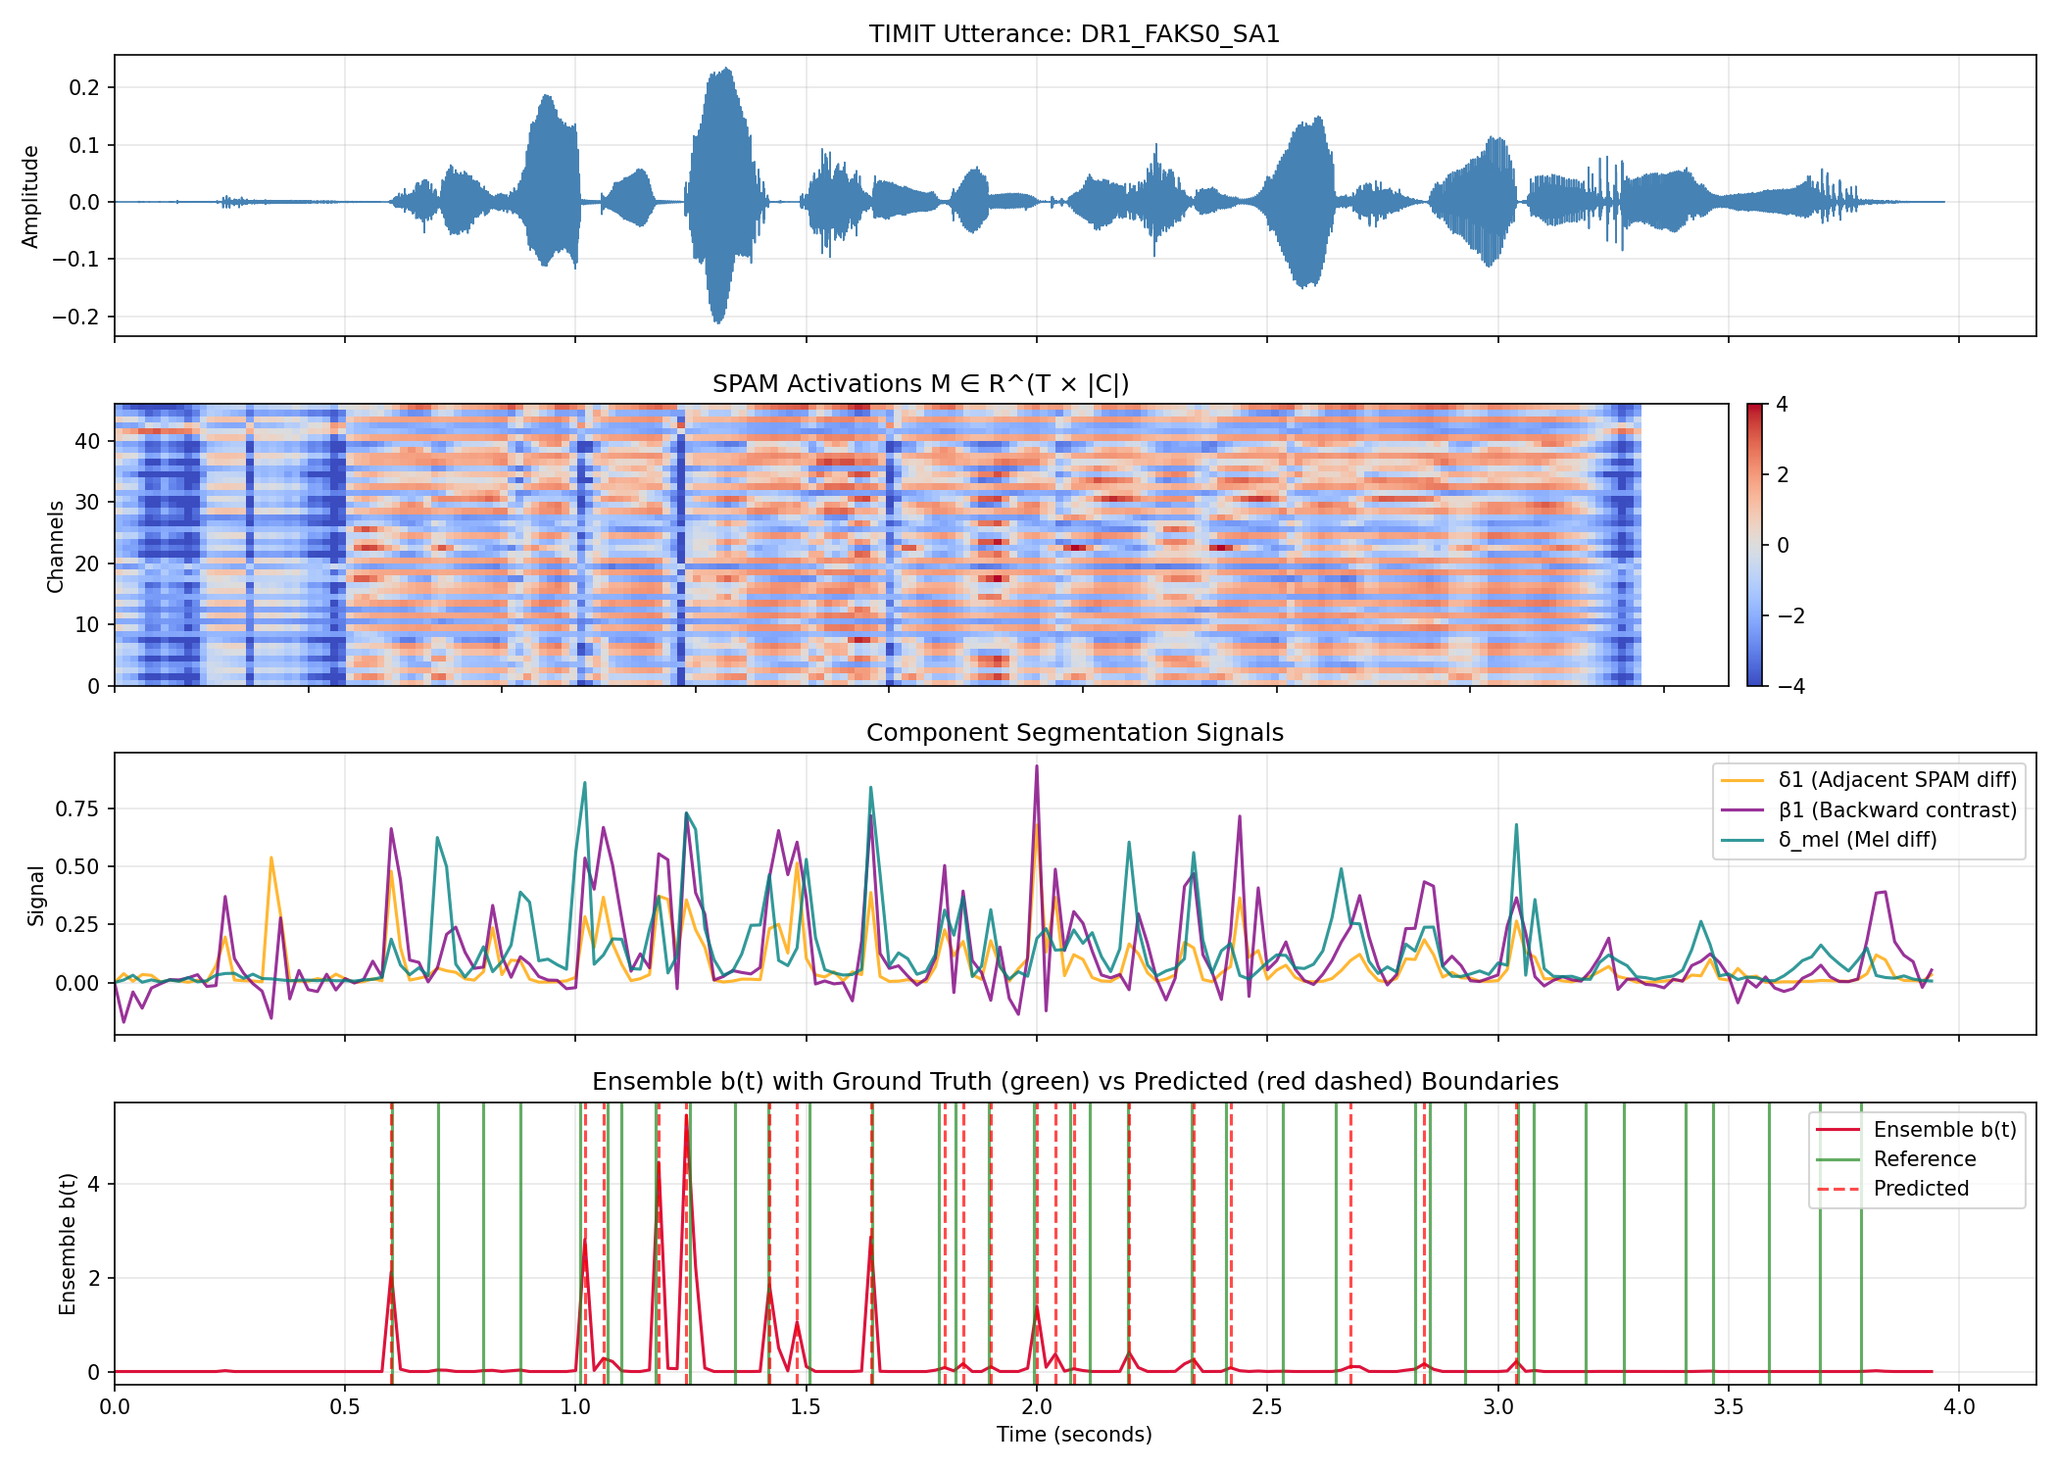
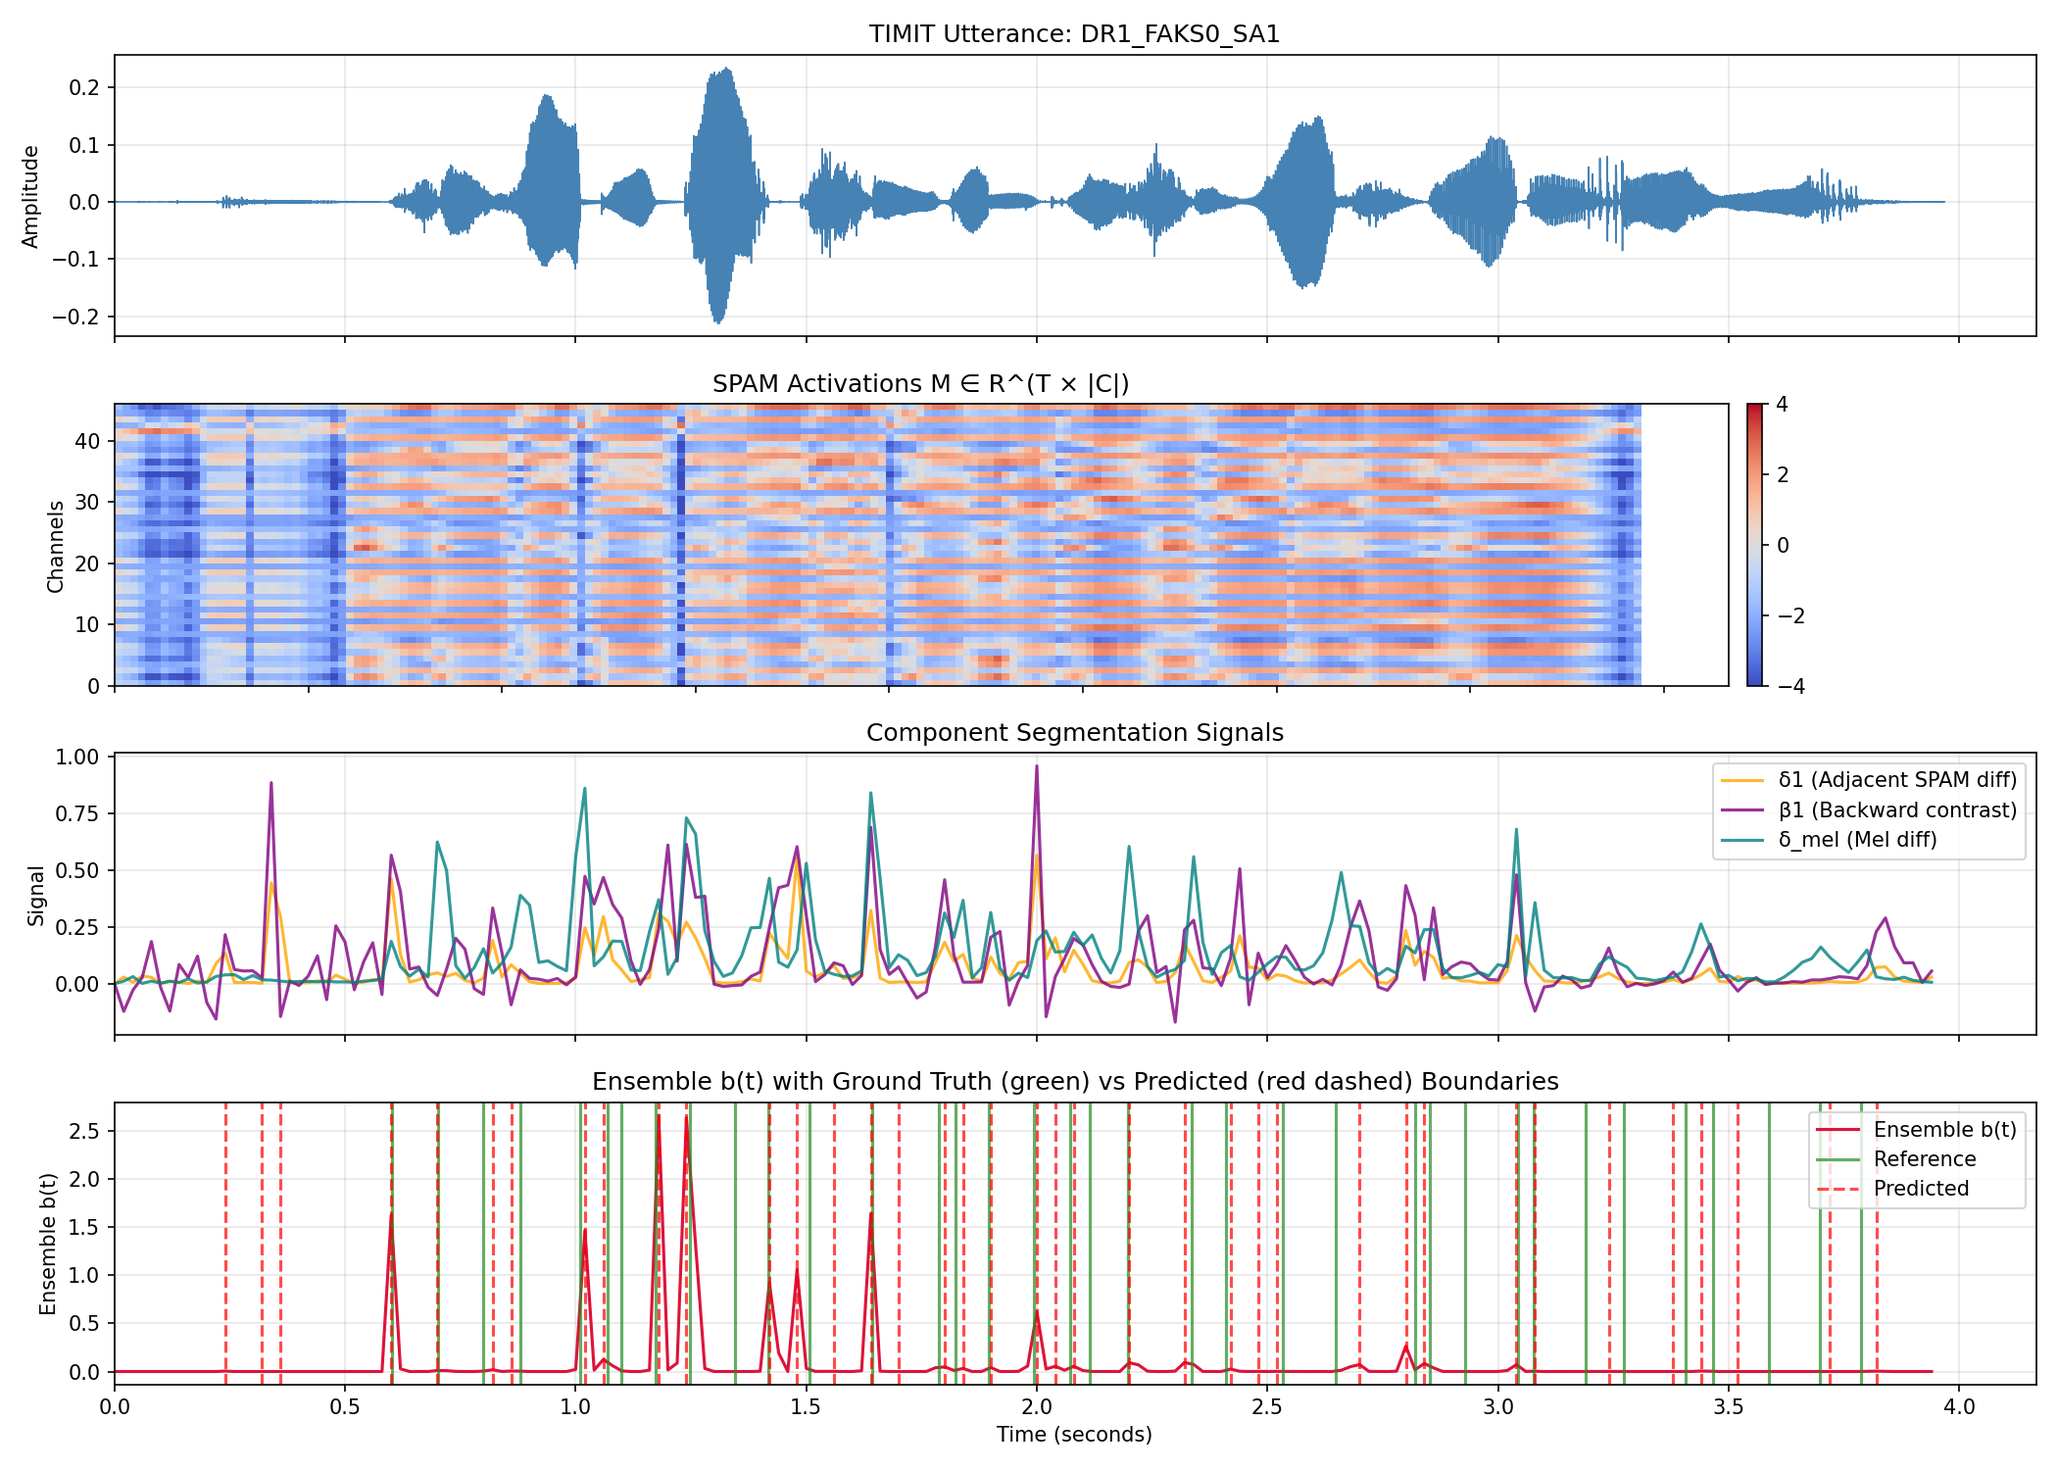
Align SPAM implementation with paper specifications and optimal hyperparameters

diff --git a/run_reproduction.py b/run_reproduction.py
@@ -85,9 +85,8 @@ def log_environment_info(pv: PhonologicalVectors, num_train: int, num_test: int)
 
 
 def run_full_reproduction(
-    num_train: int = 256,
+    num_train: Optional[int] = 256,
     use_core_test: bool = True,
-    prominence_sweep: Optional[List[float]] = None,
 ):
     np.random.seed(default_config.random_seed)
     torch.manual_seed(default_config.random_seed)
@@ -286,23 +285,27 @@ def run_full_reproduction(
     for utt, wav, rep, spam in test_data:
         b, _ = seg_head.compute_ensemble_signal(wav, rep, spam)
         peaks, pred_times = seg_head.detect_boundaries(b)
-        pred_phones = rec_head.predict_utterance(spam, peaks.tolist())
+        pred_phones = rec_head.predict_utterance(
+            spam,
+            peaks.tolist(),
+            silence_channel_idx=silence_idx,
+            silence_threshold=default_config.silence_threshold,
+        )
 
         all_ref_boundaries.append(utt.eval_boundaries)
         all_pred_boundaries.append(pred_times)
         all_ref_phones.append(utt.eval_ipa_sequence)
         all_pred_phones.append(pred_phones)
 
-    best_seg_res = evaluator.evaluate_segmentation(all_ref_boundaries, all_pred_boundaries)
-    best_rec_res = evaluator.evaluate_recognition(all_ref_phones, all_pred_phones)
-    best_prom = fixed_prom
+    seg_res = evaluator.evaluate_segmentation(all_ref_boundaries, all_pred_boundaries)
+    rec_res = evaluator.evaluate_recognition(all_ref_phones, all_pred_phones)
 
     print("\n" + "=" * 75)
-    print(f"REPRODUCTION RESULTS ON TIMIT (Prominence = {best_prom})")
+    print(f"REPRODUCTION RESULTS ON TIMIT (Prominence = {fixed_prom})")
     print("=" * 75)
-    print(best_seg_res)
+    print(seg_res)
     print("-" * 75)
-    print(best_rec_res)
+    print(rec_res)
     print("=" * 75)
 
     # Final Comparison Table (Section 21)
@@ -313,7 +316,7 @@ def run_full_reproduction(
     print(header)
     print("-" * len(header))
     paper_row = f"{'TIMIT':<8} | {'TIMIT (3h)':<20} | {'WavLM-large':<14} | {'24':<6} | {'80.0%':<20} | {'22.9%':<16}"
-    repro_row = f"{'TIMIT':<8} | {f'TIMIT ({len(train_utts)} utts)':<20} | {'WavLM-large':<14} | {'24':<6} | {f'{best_seg_res.r_value * 100:.2f}%':<20} | {f'{best_rec_res.pfer * 100:.2f}%':<16}"
+    repro_row = f"{'TIMIT':<8} | {f'TIMIT ({len(train_utts)} utts)':<20} | {'WavLM-large':<14} | {'24':<6} | {f'{seg_res.r_value * 100:.2f}%':<20} | {f'{rec_res.pfer * 100:.2f}%':<16}"
     print(f"[Paper]      {paper_row}")
     print(f"[Reproduced] {repro_row}")
     print("=" * 85)
@@ -324,15 +327,63 @@ def run_full_reproduction(
         f.write("SPAM TIMIT REPRODUCTION SUMMARY\n")
         f.write(f"Train utterances: {len(train_utts)}\n")
         f.write(f"Test utterances: {len(test_utts)}\n")
-        f.write(f"Best Prominence: {best_prom}\n")
-        f.write(f"Segmentation R-value: {best_seg_res.r_value * 100:.2f}%\n")
-        f.write(f"Precision: {best_seg_res.precision * 100:.2f}%\n")
-        f.write(f"Recall: {best_seg_res.recall * 100:.2f}%\n")
-        f.write(f"F1: {best_seg_res.f1 * 100:.2f}%\n")
-        f.write(f"Recognition PFER: {best_rec_res.pfer * 100:.2f}%\n")
-        f.write(f"Recognition PER: {best_rec_res.per * 100:.2f}%\n")
+        f.write(f"Prominence: {fixed_prom}\n")
+        f.write(f"Segmentation R-value: {seg_res.r_value * 100:.2f}%\n")
+        f.write(f"Precision: {seg_res.precision * 100:.2f}%\n")
+        f.write(f"Recall: {seg_res.recall * 100:.2f}%\n")
+        f.write(f"F1: {seg_res.f1 * 100:.2f}%\n")
+        f.write(f"Recognition PFER: {rec_res.pfer * 100:.2f}%\n")
+        f.write(f"Recognition PER: {rec_res.per * 100:.2f}%\n")
     print(f"\nSummary saved to: {summary_path}")
 
 
 if __name__ == "__main__":
-    run_full_reproduction()
+    import argparse
+
+    parser = argparse.ArgumentParser(description="SPAM Reproduction on TIMIT (arXiv:2607.09020v1)")
+    parser.add_argument(
+        "--full",
+        action="store_true",
+        help="Train on the FULL TIMIT training split (4,620 utterances, ~3 hours) as per Table I.",
+    )
+    parser.add_argument(
+        "--num_train",
+        type=int,
+        default=None,
+        help="Number of training utterances to use (default: 256 unless --full is specified).",
+    )
+    parser.add_argument(
+        "--all_test",
+        action="store_true",
+        help="Evaluate on the complete test set (1,680 utts) instead of the standard Core Test Set (192 utts).",
+    )
+    parser.add_argument(
+        "--timit_root",
+        type=str,
+        default=None,
+        help="Optional override for TIMIT dataset directory.",
+    )
+    parser.add_argument(
+        "--output_root",
+        type=str,
+        default=None,
+        help="Optional override for output directory.",
+    )
+    args = parser.parse_args()
+
+    # Apply path overrides if supplied
+    if args.timit_root:
+        default_config.timit_root = Path(args.timit_root)
+    if args.output_root:
+        default_config.output_root = Path(args.output_root)
+        default_config.output_root.mkdir(parents=True, exist_ok=True)
+
+    # Determine training subset
+    if args.full:
+        train_count = None
+    elif args.num_train is not None:
+        train_count = args.num_train
+    else:
+        train_count = 256
+
+    run_full_reproduction(num_train=train_count, use_core_test=not args.all_test)

diff --git a/src/recognition_head.py b/src/recognition_head.py
@@ -40,17 +40,31 @@ class RecognitionHead:
         """Element-wise numerically stable sigmoid."""
         return 1.0 / (1.0 + np.exp(-np.clip(x, -50.0, 50.0)))
 
-    def predict_frame(self, spam_vector: np.ndarray) -> Tuple[str, float]:
+    def predict_frame(
+        self,
+        spam_vector: np.ndarray,
+        silence_channel_idx: Optional[int] = None,
+        silence_threshold: float = 0.5,
+    ) -> Tuple[str, float]:
         """Predicts phone identity for a single frame SPAM vector m_t in R^|C|.
         
         Args:
             spam_vector: 1D array of shape [C].
+            silence_channel_idx: Optional index of silence+ channel. If provided and
+                                 activation exceeds silence_threshold, predicts '_' (silence).
+            silence_threshold: Threshold on sigmoid(m_{t, silence+}) for silence prediction.
             
         Returns:
-            predicted_phone: The phone string whose canonical vector maximizes Equation (4).
-            score: The maximum dot-product score.
+            predicted_phone: The phone string ('_' for silence, or PanPhon phone maximizing Eq. 4).
+            score: The maximum dot-product score or silence probability.
         """
         sig_m = self.sigmoid(spam_vector)  # [C]
+
+        # Handle silence per Section III-B and Figure 2 ("[0.00-0.14 _]")
+        if silence_channel_idx is not None and 0 <= silence_channel_idx < len(sig_m):
+            if sig_m[silence_channel_idx] >= silence_threshold:
+                return "_", float(sig_m[silence_channel_idx])
+
         scores = self.P @ sig_m            # [V]
         best_idx = int(np.argmax(scores))
         return self.phones[best_idx], float(scores[best_idx])
@@ -60,6 +74,8 @@ class RecognitionHead:
         spam: np.ndarray,
         start_frame: int,
         stop_frame: int,
+        silence_channel_idx: Optional[int] = None,
+        silence_threshold: float = 0.5,
     ) -> Tuple[str, float]:
         """Predicts phone identity for a segment s by reading SPAM at its temporal center c(s).
         
@@ -67,25 +83,35 @@ class RecognitionHead:
             spam: 2D array of shape [T, C].
             start_frame: Start frame index of the segment.
             stop_frame: Stop frame index of the segment (exclusive).
+            silence_channel_idx: Optional index of silence+ channel.
+            silence_threshold: Threshold on sigmoid(m_{c(s), silence+}).
             
         Returns:
-            predicted_phone: Best matching phone string.
+            predicted_phone: Best matching phone string ('_' for silence).
             score: Maximum score.
         """
         center_frame = (start_frame + stop_frame) // 2
         center_frame = min(max(center_frame, 0), spam.shape[0] - 1)
-        return self.predict_frame(spam[center_frame])
+        return self.predict_frame(
+            spam[center_frame],
+            silence_channel_idx=silence_channel_idx,
+            silence_threshold=silence_threshold,
+        )
 
     def predict_utterance(
         self,
         spam: np.ndarray,
         boundary_frames: List[int],
+        silence_channel_idx: Optional[int] = None,
+        silence_threshold: float = 0.5,
     ) -> List[str]:
         """Predicts phone sequence for all segments delimited by boundary frames.
         
         Args:
             spam: 2D array of shape [T, C].
-            boundary_frames: Sorted list of boundary frame indices including 0 and T.
+            boundary_frames: Sorted list of boundary frame indices.
+            silence_channel_idx: Optional index of silence+ channel.
+            silence_threshold: Threshold on sigmoid(m_{c(s), silence+}).
             
         Returns:
             predicted_phones: List of predicted phone strings for each interval.
@@ -100,7 +126,13 @@ class RecognitionHead:
             stop = bounds[i + 1]
             if stop <= start:
                 continue
-            phone, _ = self.predict_segment(spam, start, stop)
+            phone, _ = self.predict_segment(
+                spam,
+                start,
+                stop,
+                silence_channel_idx=silence_channel_idx,
+                silence_threshold=silence_threshold,
+            )
             predictions.append(phone)
 
         return predictions

diff --git a/src/config.py b/src/config.py
@@ -1,15 +1,29 @@
 """Configuration module for SPAM reproduction."""
 
-from dataclasses import dataclass
+import os
+from dataclasses import dataclass, field
 from pathlib import Path
+
+
+# Auto-detect if running inside Google Colab with Drive mounted
+IS_COLAB = Path("/content/drive/MyDrive/SPAM").exists()
 
 
 @dataclass
 class Config:
-    # Dataset paths
-    timit_root: Path = Path(r"c:\SPAM\TIMIT_LDC93S1\TIMIT_LDC93S1\TIMIT")
-    output_root: Path = Path(r"c:\SPAM\output")
-    cache_dir: Path = Path(r"c:\SPAM\output\cache")
+    # Dataset paths: uses your exact Drive location on Colab, local path on Windows
+    timit_root: Path = (
+        Path("/content/drive/MyDrive/SPAM/TIMIT_LDC93S1/TIMIT_LDC93S1/TIMIT")
+        if IS_COLAB else Path(r"c:\SPAM\TIMIT_LDC93S1\TIMIT_LDC93S1\TIMIT")
+    )
+    output_root: Path = (
+        Path("/content/drive/MyDrive/SPAM/output")
+        if IS_COLAB else Path(r"c:\SPAM\output")
+    )
+    cache_dir: Path = (
+        Path("/content/cache")
+        if Path("/content").exists() else Path(r"c:\SPAM\output\cache")
+    )
 
     # Audio & Model settings
     sample_rate: int = 16000
@@ -30,7 +44,7 @@ class Config:
     # Segmentation peak detection & suppression settings (Section III-D)
     prominence_threshold: float = 1e-6  # [UNSPECIFIED IN PAPER: best value for 7-signal product ensemble]
     min_peak_distance_frames: int = 2  # Min distance between boundary peaks (40 ms)
-    silence_threshold: float = 0.7  # [UNSPECIFIED IN PAPER: best threshold on sigmoid(m_{t, silence+})]
+    silence_threshold: float = 0.5  # [UNSPECIFIED IN PAPER: best threshold on sigmoid(m_{t, silence+}) corresponding to midpoint alpha_i]
 
     # Evaluation settings (Section IV-A, IV-B)
     tolerance_seconds: float = 0.02  # 20 ms boundary tolerance

diff --git a/src/evaluation.py b/src/evaluation.py
@@ -12,7 +12,7 @@ from typing import List, Dict, Tuple, Optional, Sequence
 import numpy as np
 import panphon.distance
 from phone_metrics.segmentation import PrecisionRecallMetric
-from phone_metrics.recognition import phone_error_rates, _levenshtein
+from phone_metrics.recognition import phone_error_rates, _levenshtein, _expand_phones
 from phone_metrics.timit import SILENCE
 
 
@@ -124,9 +124,13 @@ class Evaluator:
         total_phones = 0
 
         for ref, pred in zip(ref_phones_list, pred_phones_list):
+            # Expand compound phones (diphthongs -> component vowels) per phone_metrics benchmark convention
+            ref_expanded = _expand_phones(ref)
+            pred_expanded = _expand_phones(pred)
+
             # Ignore silence in PFER and PER
-            ref_ns = [tok for tok in ref if tok != SILENCE and tok is not None]
-            pred_ns = [tok for tok in pred if tok != SILENCE and tok is not None]
+            ref_ns = [tok for tok in ref_expanded if tok != SILENCE and tok is not None]
+            pred_ns = [tok for tok in pred_expanded if tok != SILENCE and tok is not None]
             if not ref_ns:
                 continue
 

diff --git a/src/panphon_mapping.py b/src/panphon_mapping.py
@@ -143,8 +143,14 @@ class PanphonMapping:
                     elif ch == "release-":
                         # Stops/affricates release burst vs non-stops
                         # For canonical phone, non-stop phones have release-
-                        is_stop = seg.get("cont") == -1 and seg.get("delrel") == -1
+                        is_stop = seg.get("cont") == -1 and seg.get("nas") == -1
                         if not is_stop:
+                            vec[i] = 1.0
+                            active_count += 1
+                    elif ch == "release+":
+                        # Stops/affricates get release+ in canonical vector
+                        is_stop = seg.get("cont") == -1 and seg.get("nas") == -1
+                        if is_stop:
                             vec[i] = 1.0
                             active_count += 1
                 else:

diff --git a/tests/test_pipeline.py b/tests/test_pipeline.py
@@ -247,3 +247,22 @@ def test_boundary_evaluation():
     res_misses = evaluator.evaluate_segmentation(ref, pred_misses)
     assert res_misses.hits == 0
     assert res_misses.r_value < 1.0
+
+
+# 17. silence handling in recognition head
+def test_recognition_with_silence():
+    canonical_inv = {
+        "p": np.array([0.0, 0.7, 0.3]),
+        "b": np.array([0.0, 0.2, 0.8]),
+    }
+    rec = RecognitionHead(canonical_inv)
+    # Channel 0 is silence+
+    # High silence activation -> predicts '_'
+    m_sil = np.array([10.0, 5.0, 5.0])
+    pred, _ = rec.predict_frame(m_sil, silence_channel_idx=0, silence_threshold=0.5)
+    assert pred == "_"
+
+    # Speech frame -> predicts phone
+    m_speech = np.array([-10.0, 10.0, -10.0])
+    pred, _ = rec.predict_frame(m_speech, silence_channel_idx=0, silence_threshold=0.5)
+    assert pred == "p"

diff --git a/run_sanity_check.py b/run_sanity_check.py
@@ -166,7 +166,12 @@ def run_sanity_check(num_train: int = 10, num_test: int = 2):
     print(f"Canonical inventory entries: {len(canonical_inv)}")
     rec_head = RecognitionHead(canonical_inv)
 
-    pred_phones = rec_head.predict_utterance(spam_test, peaks.tolist())
+    pred_phones = rec_head.predict_utterance(
+        spam_test,
+        peaks.tolist(),
+        silence_channel_idx=silence_idx,
+        silence_threshold=default_config.silence_threshold,
+    )
     print(f"Delimited segments: {len(pred_phones)}")
     print(f"Sample predicted phones: {pred_phones[:10]}")
 

diff --git a/src/__init__.py b/src/__init__.py
@@ -1,4 +1,14 @@
-"""SPAM: Phone Segmentation and Recognition through Phonological Activation Mapping."""
+import sys
+from pathlib import Path
+
+# Add phone-metrics to path if not installed as pip package
+try:
+    import phone_metrics
+except ImportError:
+    for p in [Path("/content/drive/MyDrive/SPAM/phone-metrics"), Path(__file__).resolve().parent.parent / "phone-metrics"]:
+        if p.exists() and str(p) not in sys.path:
+            sys.path.insert(0, str(p))
+            break
 
 # Ensure panphon UTF-8 encoding compatibility on Windows
 try:

diff --git a/src/segmentation_head.py b/src/segmentation_head.py
@@ -84,7 +84,7 @@ class SegmentationHead:
         self,
         backward_regressor: Optional[BackwardRegressor] = None,
         silence_channel_idx: Optional[int] = None,
-        prominence: float = 0.05,
+        prominence: float = 1e-6,
         min_distance: int = 2,
         silence_threshold: float = 0.5,
         sample_rate: int = 16000,
